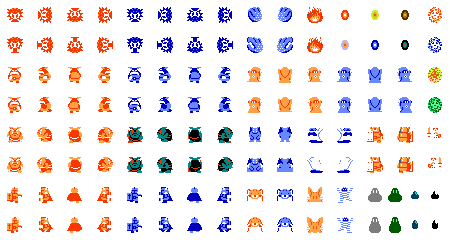
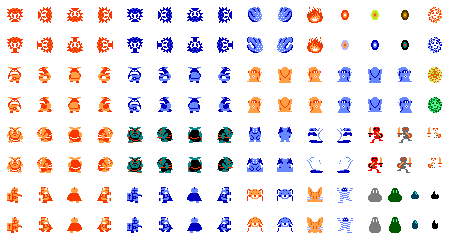
changed new skeletons

Changed region(s): [[0.8089, 0.6417, 0.9333, 0.7292], [0.8089, 0.525, 0.9333, 0.6125]]

diff --git a/Game1/Sprite/EnemySpriteFactory.cs b/Game1/Sprite/EnemySpriteFactory.cs
@@ -21,6 +21,8 @@ namespace Game1.Enemy
 
         private const int SpikeTrapAndOldManColumn = 0, SpikeTrapAndOldManRow = 0, SpikeTrapAndOldManMaxColumns = 1, SpikeTrapAndOldManMaxRows = 1, SpikeTrapAndOldManTotalFrames = 1;
         private const int SkeletonColumn = 14, SkeletonRow = 4, SkeletonMaxColumns = 15, SkeletonMaxRows = 8, SkeletonTotalFrames = 2;
+        private const int RedSkeletonColumn = 12, RedSkeletonRow = 4, RedSkeletonMaxColumns = 15, RedSkeletonMaxRows = 8, RedSkeletonTotalFrames = 2;
+        private const int GraySkeletonColumn = 13, GraySkeletonRow = 4, GraySkeletonMaxColumns = 15, GraySkeletonMaxRows = 8, GraySkeletonTotalFrames = 2;
         private const int MerchantColumn = 0, MerchantRow = 0, MerchantMaxColumns = 1, MerchantMaxRows = 1, MerchantTotalFrames = 0;
         private const int JellyColumn = 14, JellyRow = 6, JellyMaxColumns = 15, JellyMaxRows = 8, JellyTotalFrames = 2;
         private const int BatColumn = 0, BatRow = 0, BatMaxColumns = 1, BatMaxRows = 2, BatTotalFrames = 2;
@@ -67,6 +69,16 @@ namespace Game1.Enemy
         public ISprite CreateSkeletonSprite()
         {
             return new EnemySprite(enemySpritesheet, SkeletonColumn, SkeletonRow, SkeletonMaxColumns, SkeletonMaxRows, SkeletonTotalFrames);
+        }
+
+        public ISprite CreateRedSkeletonSprite()
+        {
+            return new EnemySprite(enemySpritesheet, RedSkeletonColumn, RedSkeletonRow, RedSkeletonMaxColumns, RedSkeletonMaxRows, RedSkeletonTotalFrames);
+        }
+
+        public ISprite CreateGraySkeletonSprite()
+        {
+            return new EnemySprite(enemySpritesheet, GraySkeletonColumn, GraySkeletonRow, GraySkeletonMaxColumns, GraySkeletonMaxRows, GraySkeletonTotalFrames);
         }
 
         public ISprite CreateSpikeTrapSprite()

diff --git a/Game1/Enemy/Skeleton/ShootingSkeleton.cs b/Game1/Enemy/Skeleton/ShootingSkeleton.cs
@@ -41,14 +41,9 @@ namespace Game1.Enemy
 
         public void Draw(SpriteBatch spriteBatch, Color color)
         {
-            if (color.Equals(Color.White))
-            {
-                state.Draw(spriteBatch, Color.Red);
-            }
-            else
-            {
-                state.Draw(spriteBatch, color);
-            }
+           
+            state.Draw(spriteBatch, Color.Red);
+        
             
         }
 

diff --git a/Game1/Enemy/Skeleton/HardSkeleton.cs b/Game1/Enemy/Skeleton/HardSkeleton.cs
@@ -41,14 +41,9 @@ namespace Game1.Enemy
 
         public void Draw(SpriteBatch spriteBatch, Color color)
         {
-            if (color.Equals(Color.White))
-            {
-                state.Draw(spriteBatch, Color.DarkSlateGray);
-            }
-            else
-            {
-                state.Draw(spriteBatch, color);
-            }
+
+            state.Draw(spriteBatch, color);
+
             
         }
 

diff --git a/Game1/Enemy/Skeleton/ShootingSkeletonStateMoving.cs b/Game1/Enemy/Skeleton/ShootingSkeletonStateMoving.cs
@@ -29,7 +29,7 @@ namespace Game1.Enemy
 
         public ShootingSkeletonStateMoving(Vector2 position, IEnemy skeleton, Screen screen)
         {
-            this.Sprite = EnemySpriteFactory.Instance.CreateSkeletonSprite();
+            this.Sprite = EnemySpriteFactory.Instance.CreateRedSkeletonSprite();
 
             this.position = position;
             this.player = screen.Players[0];

diff --git a/Game1/Enemy/Skeleton/HardSkeletonStateMoving.cs b/Game1/Enemy/Skeleton/HardSkeletonStateMoving.cs
@@ -27,7 +27,7 @@ namespace Game1.Enemy
 
         public HardSkeletonStateMoving(Vector2 position, IEnemy skeleton, Screen screen)
         {
-            this.Sprite = EnemySpriteFactory.Instance.CreateSkeletonSprite();
+            this.Sprite = EnemySpriteFactory.Instance.CreateGraySkeletonSprite();
 
             this.position = position;
             this.player = screen.Players[0];
